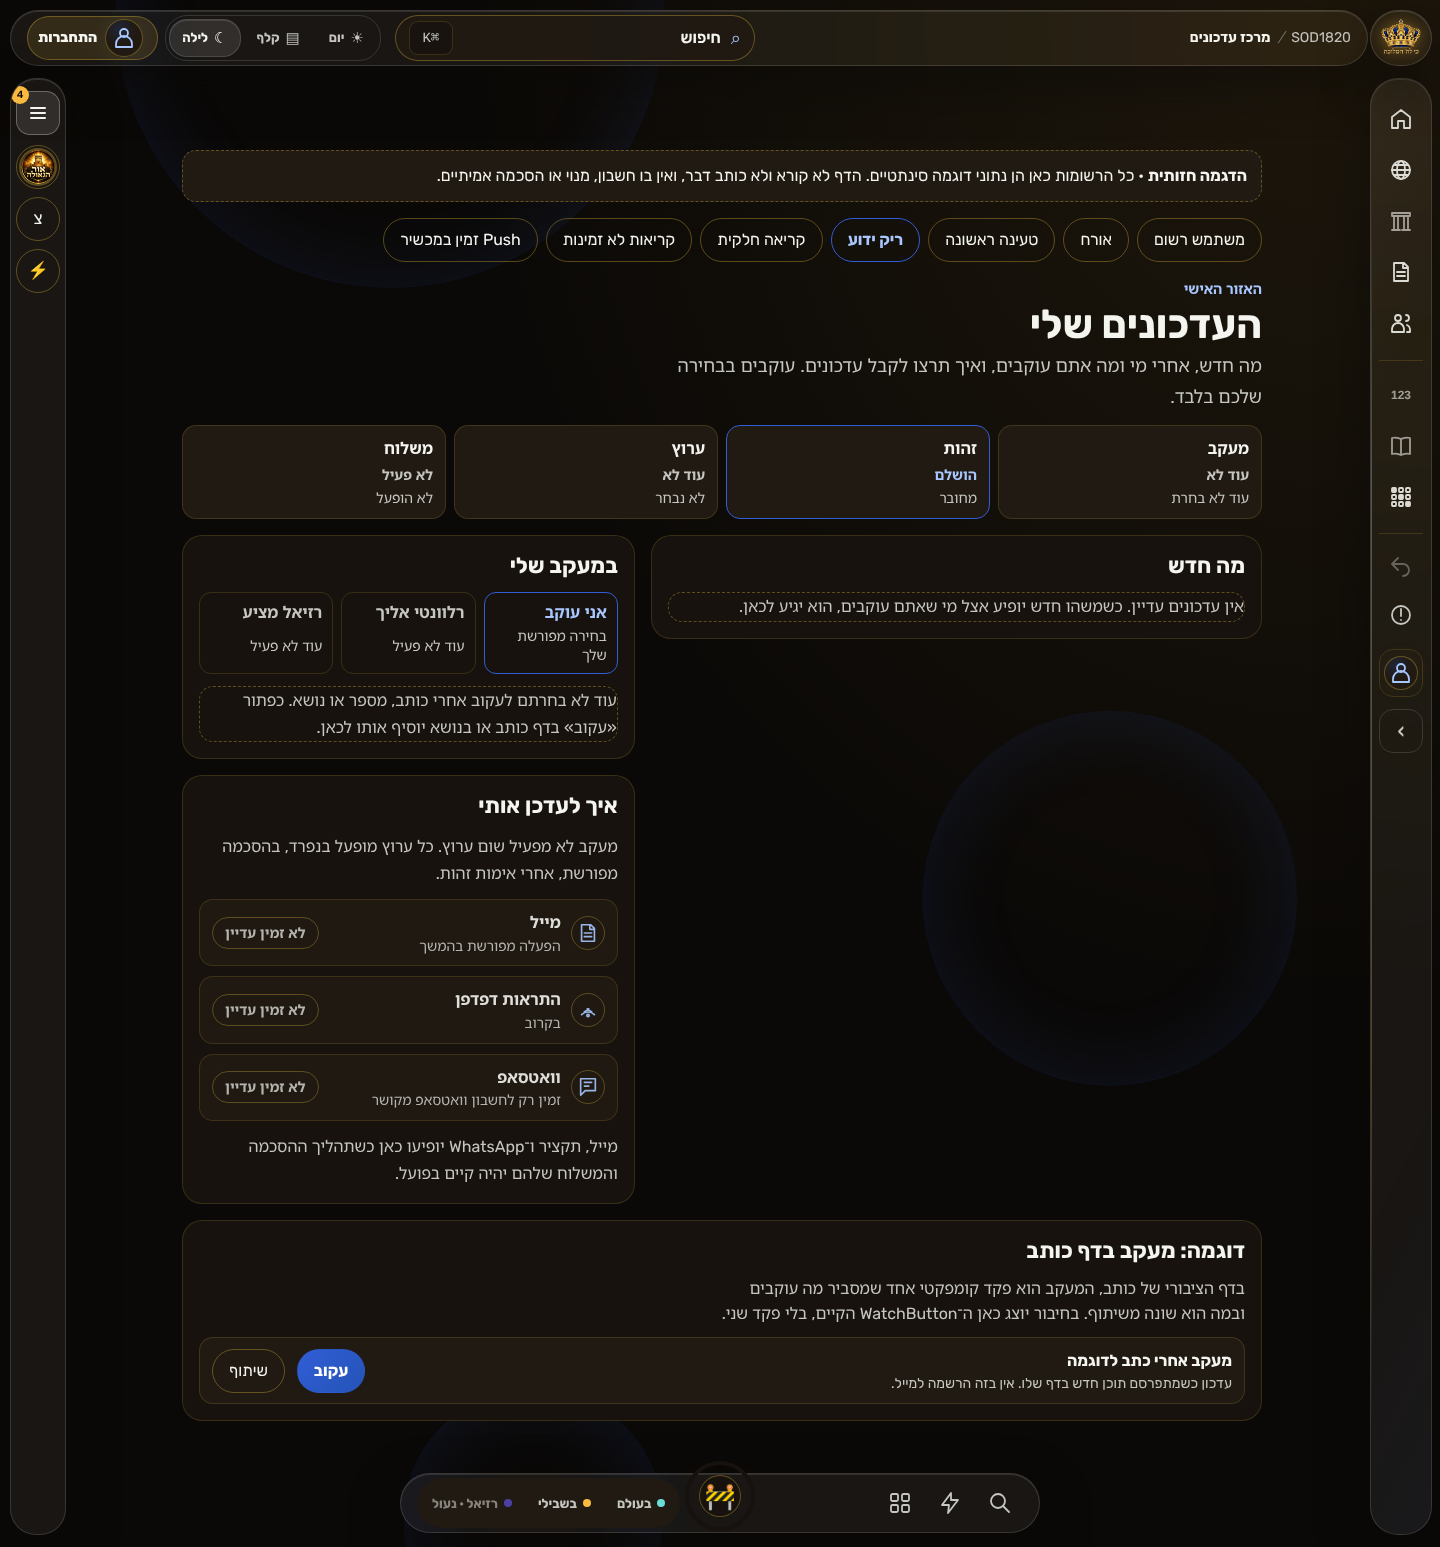
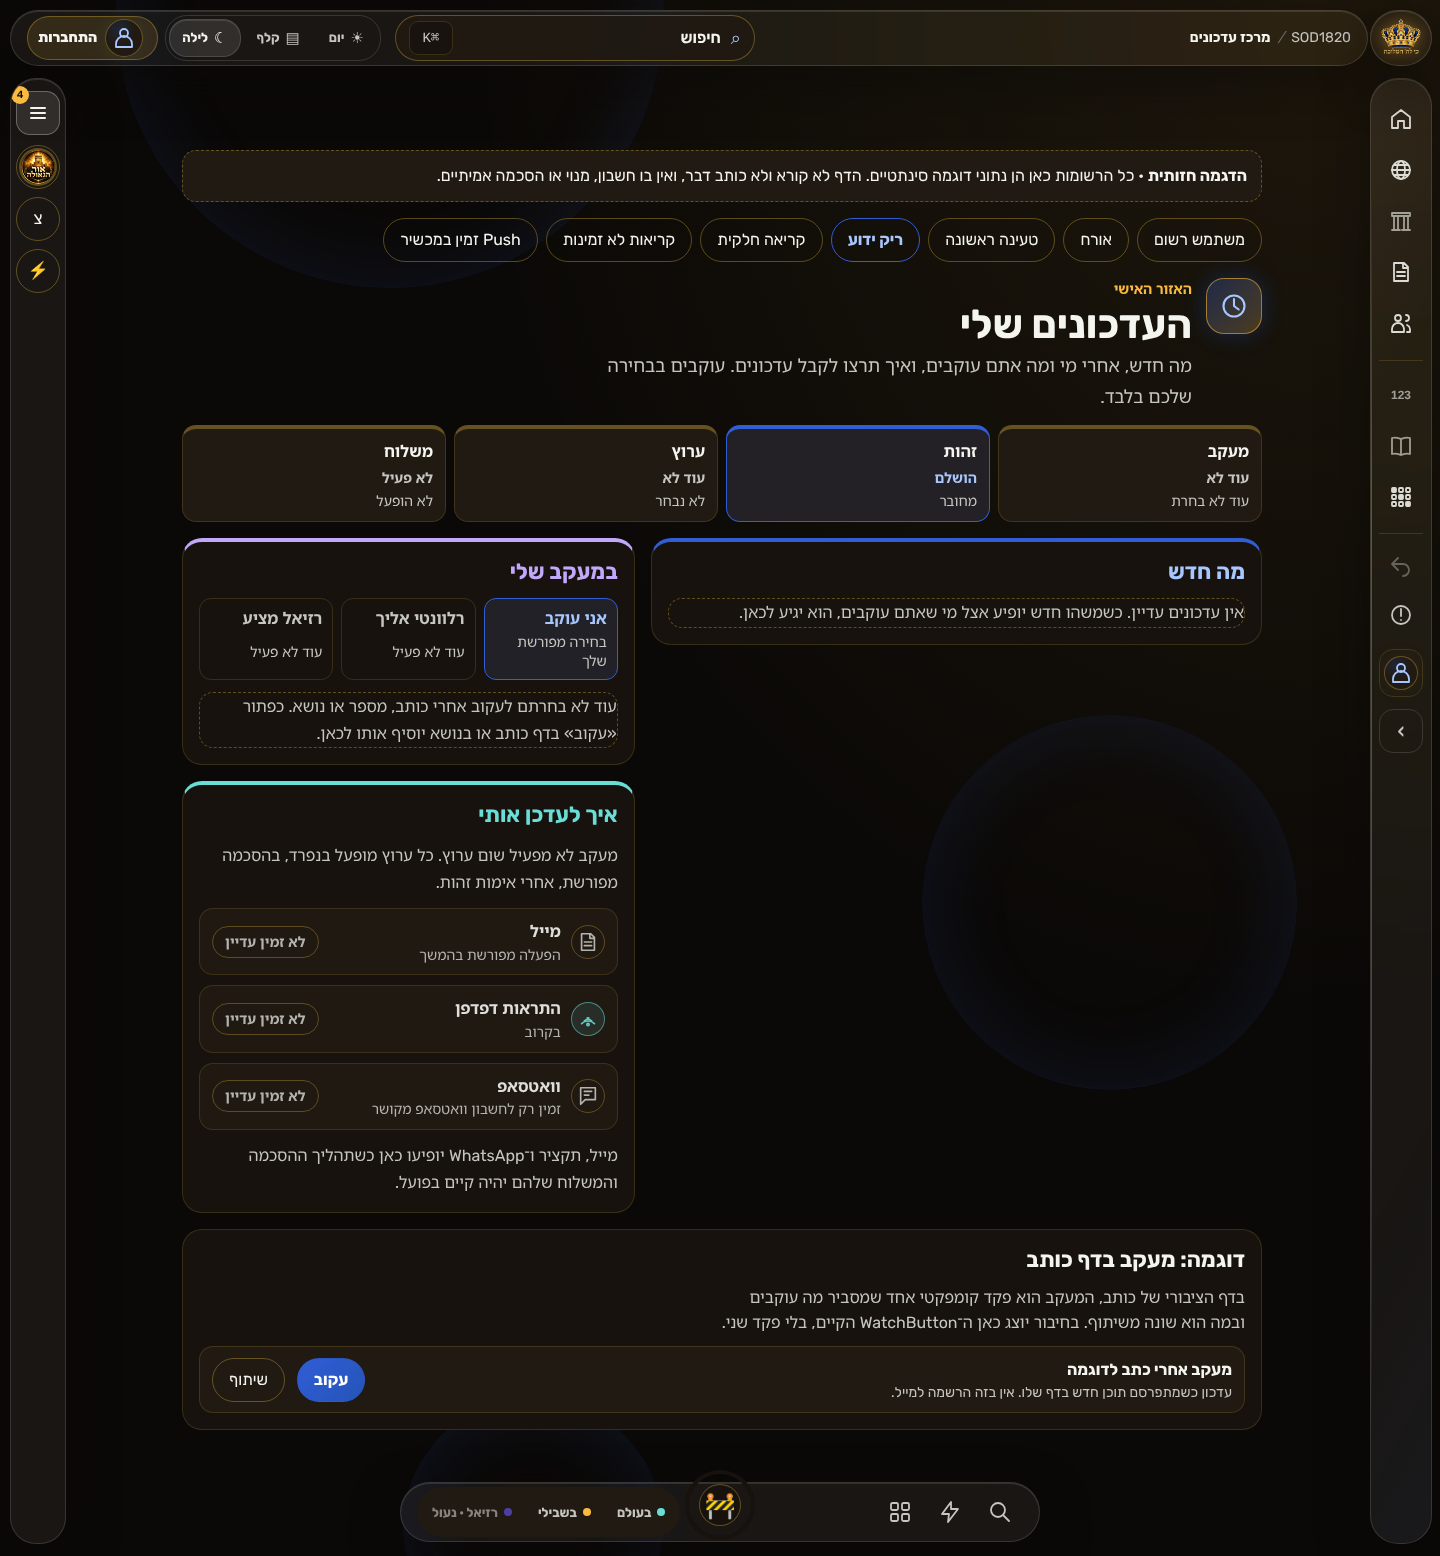
feat(2029): follow center uses semantic colour roles instead of one neutral surface
Claude-Session: https://claude.ai/code/session_018Ps33Uv6JND2xDR3bPRDa3

diff --git a/src/components/followCenter2029/FollowCenter2029.jsx b/src/components/followCenter2029/FollowCenter2029.jsx
@@ -22,10 +22,13 @@ export default function FollowCenter2029({ model, returnHref = null, onMarkAllRe
   const guest = principal === "guest";
   return <section className="fc" aria-labelledby="fc-title" data-principal={principal}>
     <header className="fc-head">
-      <div>
-        <p className="fc-eyebrow">האזור האישי</p>
-        <h1 id="fc-title">העדכונים שלי</h1>
-        <p className="fc-lede">מה חדש, אחרי מי ומה אתם עוקבים, ואיך תרצו לקבל עדכונים. עוקבים בבחירה שלכם בלבד.</p>
+      <div className="fc-title-row">
+        <span className="fc-tile" aria-hidden="true"><NavigationIcon2029 name="now" size={28} /></span>
+        <div>
+          <p className="fc-eyebrow">האזור האישי</p>
+          <h1 id="fc-title">העדכונים שלי</h1>
+          <p className="fc-lede">מה חדש, אחרי מי ומה אתם עוקבים, ואיך תרצו לקבל עדכונים. עוקבים בבחירה שלכם בלבד.</p>
+        </div>
       </div>
       <ol className="fc-life" aria-label="ארבעת שלבי המעקב, כל אחד נפרד">
         {lifecycle.map((step) => <li key={step.key} data-state={step.state}>
@@ -45,7 +48,7 @@ export default function FollowCenter2029({ model, returnHref = null, onMarkAllRe
     </div> : null}
 
     <div className="fc-grid">
-      <section className="fc-card fc-updates" aria-labelledby="fc-updates-title">
+      <section className="fc-card fc-updates" data-tone="action" aria-labelledby="fc-updates-title">
         <div className="fc-card-head">
           <h2 id="fc-updates-title">מה חדש</h2>
           {updates.state === "ready" && updates.unread ? <button type="button" className="fc-link" onClick={onMarkAllRead}>סמן הכול כנקרא ({updates.unread})</button> : null}
@@ -62,7 +65,7 @@ export default function FollowCenter2029({ model, returnHref = null, onMarkAllRe
               </div>
               {item.body ? <p className="fc-body">{item.body}</p> : null}
               <p className="fc-meta"><time>{item.time}</time>
-                {item.why ? <span className="fc-why">כי אתם עוקבים אחרי <b className="fc-why-name"><span className="fc-icon-sm" aria-hidden="true"><NavigationIcon2029 name={item.why.icon} size={16} /></span> {item.why.label}</b>{item.why.kind ? ` · ${item.why.kind}` : ""}</span> : null}</p>
+                {item.why ? <span className="fc-why">כי אתם עוקבים אחרי <b className="fc-why-name"><span className="fc-icon-sm" data-icon={item.why.icon} aria-hidden="true"><NavigationIcon2029 name={item.why.icon} size={16} /></span> {item.why.label}</b>{item.why.kind ? ` · ${item.why.kind}` : ""}</span> : null}</p>
               {href ? <a className="fc-open" href={href} onClick={() => onOpenUpdate?.(item)}>לצפייה בתוכן <span aria-hidden="true">←</span></a> : null}
             </li>;
           })}
@@ -70,7 +73,7 @@ export default function FollowCenter2029({ model, returnHref = null, onMarkAllRe
       </section>
 
       <div className="fc-side">
-        <section className="fc-card" aria-labelledby="fc-follow-title">
+        <section className="fc-card" data-tone="follow" aria-labelledby="fc-follow-title">
           <h2 id="fc-follow-title">במעקב שלי</h2>
           <ul className="fc-inputs" aria-label="שלושה סוגי קלט נפרדים">
             {inputs.map((input) => <li key={input.key} data-active={input.active}><b>{input.label}</b><span>{input.note}</span></li>)}
@@ -83,7 +86,7 @@ export default function FollowCenter2029({ model, returnHref = null, onMarkAllRe
               {group.items.map((entry) => {
                 const href = withReturn(entry.href, returnHref);
                 return <li key={entry.topic} className="fc-follow-row" data-change={entry.change}>
-                  <span className="fc-icon" aria-hidden="true"><NavigationIcon2029 name={entry.icon} size={22} /></span>
+                  <span className="fc-icon" data-icon={entry.icon} aria-hidden="true"><NavigationIcon2029 name={entry.icon} size={22} /></span>
                   {href ? <a className="fc-name" href={href}>{entry.label}</a> : <span className="fc-name">{entry.label}</span>}
                   <button type="button" className="fc-btn" aria-label={`ביטול מעקב: ${entry.label}`} aria-busy={entry.change === "pending"} disabled={entry.change === "pending"} onClick={() => onUnfollow?.(entry.topic)}>
                     {entry.change === "pending" ? "מבטל…" : <>עוקב <NavigationIcon2029 name="check" size={16} /></>}</button>
@@ -95,12 +98,12 @@ export default function FollowCenter2029({ model, returnHref = null, onMarkAllRe
           </div>) : null}
         </section>
 
-        <section className="fc-card" aria-labelledby="fc-channel-title">
+        <section className="fc-card" data-tone="channel" aria-labelledby="fc-channel-title">
           <h2 id="fc-channel-title">איך לעדכן אותי</h2>
           <p className="fc-note-plain">מעקב לא מפעיל שום ערוץ. כל ערוץ מופעל בנפרד, בהסכמה מפורשת, אחרי אימות זהות.</p>
           <ul className="fc-list">
             {channels.map((channel) => <li key={channel.key} className="fc-channel" data-available={channel.available}>
-              <span className="fc-icon" aria-hidden="true"><NavigationIcon2029 name={channel.icon} size={22} /></span>
+              <span className="fc-icon" data-icon={channel.icon} data-available={channel.available} aria-hidden="true"><NavigationIcon2029 name={channel.icon} size={22} /></span>
               <div><strong>{channel.label}</strong><small>{channel.note}</small></div>
               <span className="fc-chip" data-on={channel.chosen}>{channel.chosen ? "פעיל" : channel.available ? "אפשר להפעיל" : "לא זמין עדיין"}</span>
             </li>)}

diff --git a/src/components/followCenter2029/followCenter2029.css b/src/components/followCenter2029/followCenter2029.css
@@ -87,3 +87,30 @@ a.fc-name{color:var(--s29-accent-text);text-decoration:underline;text-underline-
 .fcp-spec-row small{display:block;color:var(--s29-muted);font-size:14px;line-height:1.4}
 .fcp-spec-chip{min-height:44px;min-width:44px;display:inline-flex;align-items:center;justify-content:center;padding:8px 16px;border-radius:999px;border:1px solid transparent;background:var(--s29-accent-btn,var(--s29-accent));color:var(--s29-on-accent,#fff);font-size:16px;font-weight:700}
 .fcp-spec-share{background:transparent;border-color:var(--s29-line-strong);color:var(--s29-ink);font-weight:400}
+
+/* Colour roles (Design V2): ordinary text stays theme ink; colour carries meaning through the semantic roles.
+   Person = Brand gold identity ornament, numeric = action/indigo, category and depth = secondary violet,
+   discovery/source/channel = cyan, selected/action = accent. Brand roles are ornament, never status. */
+.fc-title-row{display:flex;align-items:flex-start;gap:14px}
+.fc-tile{flex:0 0 auto;display:grid;place-items:center;width:56px;height:56px;border-radius:18px;color:var(--s29-accent-text);border:1px solid color-mix(in srgb,var(--s29-brand-gold) 55%,transparent);background:linear-gradient(135deg,color-mix(in srgb,var(--s29-brand-sapphire) 26%,var(--s29-panel-soft)),color-mix(in srgb,var(--s29-brand-gold) 20%,var(--s29-panel-soft)));box-shadow:0 0 22px color-mix(in srgb,var(--s29-brand-sapphire) 30%,transparent)}
+.fc-card{border-top:4px solid var(--fc-tone,var(--s29-line))}
+.fc-card[data-tone=action]{--fc-tone:var(--s29-accent)}
+.fc-card[data-tone=follow]{--fc-tone:var(--s29-accent-secondary)}
+.fc-card[data-tone=channel]{--fc-tone:var(--s29-discovery)}
+.fc-card[data-tone=action] h2{color:var(--s29-accent-text)}
+.fc-card[data-tone=follow] h2{color:var(--s29-accent-secondary)}
+.fc-card[data-tone=channel] h2{color:var(--s29-discovery)}
+.fc-update[data-unread=true]{background:color-mix(in srgb,var(--s29-accent) 11%,var(--s29-panel-soft))}
+.fc-life li{border-top:4px solid var(--s29-line-strong)}
+.fc-life li[data-state=done]{border-top-color:var(--s29-accent);background:color-mix(in srgb,var(--s29-accent) 10%,var(--s29-panel-soft))}
+.fc-life li[data-state=needed]{border-top-color:var(--s29-discovery);background:color-mix(in srgb,var(--s29-discovery) 9%,var(--s29-panel-soft))}
+.fc-inputs li[data-active=true]{background:color-mix(in srgb,var(--s29-accent) 11%,var(--s29-panel-soft))}
+.fc-icon[data-icon=personal],.fc-icon-sm[data-icon=personal]{color:var(--s29-brand-gold);border-color:color-mix(in srgb,var(--s29-brand-gold) 60%,transparent);background:color-mix(in srgb,var(--s29-brand-gold) 12%,transparent)}
+.fc-icon[data-icon=number],.fc-icon-sm[data-icon=number]{color:var(--s29-accent-text);border-color:color-mix(in srgb,var(--s29-accent) 65%,transparent);background:color-mix(in srgb,var(--s29-accent) 14%,transparent)}
+.fc-icon[data-icon=layers],.fc-icon-sm[data-icon=layers]{color:var(--s29-accent-secondary);border-color:color-mix(in srgb,var(--s29-accent-secondary) 60%,transparent);background:color-mix(in srgb,var(--s29-accent-secondary) 13%,transparent)}
+.fc-icon[data-icon=signal],.fc-icon[data-icon=discovery],.fc-icon-sm[data-icon=signal],.fc-icon-sm[data-icon=discovery]{color:var(--s29-discovery);border-color:color-mix(in srgb,var(--s29-discovery) 60%,transparent);background:color-mix(in srgb,var(--s29-discovery) 12%,transparent)}
+.fc-icon[data-icon=posts],.fc-icon[data-icon=conversation]{color:var(--s29-muted);background:transparent}
+.fc-icon[data-available=true]{color:var(--s29-discovery);border-color:var(--s29-discovery);background:color-mix(in srgb,var(--s29-discovery) 12%,transparent)}
+.fc-follow-row{background:color-mix(in srgb,var(--s29-accent-secondary) 5%,var(--s29-panel-soft))}
+.fc-follow-row .fc-btn{border-color:color-mix(in srgb,var(--s29-accent) 70%,transparent);color:var(--s29-accent-text);background:color-mix(in srgb,var(--s29-accent) 12%,transparent)}
+.fc-eyebrow{color:var(--s29-brand-gold)}

diff --git a/test/follow-center-visual-2029.browser.py b/test/follow-center-visual-2029.browser.py
@@ -169,6 +169,18 @@ def check(browser, state, width, theme):
             node = page.locator(selector).first
             fg = rgb(node.evaluate('n => getComputedStyle(n).color')); bg = rgb(node.evaluate(BG))
             assert ratio(fg, bg) >= 4.5, ('contrast', selector, round(ratio(fg, bg), 2), fg, bg, tag)
+        # colour carries meaning: distinct semantic icon colours, each readable (non-text 3:1) on its surface
+        colors = {}
+        for icon in page.locator('.fc-icon[data-icon]').all():
+            name = icon.get_attribute('data-icon'); fg = rgb(icon.evaluate('n => getComputedStyle(n).color')); colors.setdefault(name, fg)
+            if name in ('personal', 'number', 'layers', 'signal', 'discovery'):
+                assert ratio(fg, rgb(icon.evaluate(BG))) >= 3, ('icon contrast', name, fg, theme, tag)
+        assert len({colors[k] for k in ('personal', 'number', 'layers', 'signal') if k in colors}) == 4, ('four semantic icon colours', colors, tag)
+        tones = {rgb(c.evaluate('n => getComputedStyle(n).borderTopColor')) for c in page.locator('.fc-card[data-tone]').all()}
+        assert len(tones) == 3, ('three section tones', tones, tag)
+        for selector in ('h2:visible',):
+            for heading in page.locator('.fc-card h2').all():
+                assert ratio(rgb(heading.evaluate('n => getComputedStyle(n).color')), rgb(heading.evaluate(BG))) >= 4.5, ('section heading contrast', tag)
         # keyboard: every interactive control is reachable and shows a visible focus ring
         seen = set()
         for _ in range(40):

diff --git a/docs/reviews/follow-center-visual-20261025.md b/docs/reviews/follow-center-visual-20261025.md
@@ -26,6 +26,7 @@ or `WatchButton` was edited, so the three old stacked panels still render there 
 | Truthful states | loading ≠ empty; a failed read says "זה לא אומר שאין כלום" with retry; partial read keeps the other section; unfollow shows pending and an unconfirmed failure leaves the row; confirmed removes it |
 | Record time | Bilingual Hebrew + Gregorian date (relative time is Home-only per the record-time rule; the old panel used relative time) |
 | 2029 icons | Subject kinds and channels use the `NavigationIcon2029` catalogue (personal, number, layers, signal, discovery, posts, conversation, check); no emoji. There is no bell or mail icon in the catalogue, so email uses `posts` and device Push uses `signal`; a dedicated icon would be a catalogue extension for ZURIEL to approve |
+| Colour roles | Colour carries meaning through the Design V2 roles, not decoration: writer = Brand gold identity ornament, number = action/indigo, category = secondary violet, source/channel/discovery = cyan, section tops = action / violet / cyan, selected and followed = accent tint, identity tile = Crown gold + sapphire. Icons follow the contract (`currentColor`, theme text by default); colour is applied by the consumer. Icon colours are asserted at 3:1 or more and headings at 4.5:1 in all presets |
 | Design V2 | 18px reading, 16px UI, 14px metadata floor, 44px targets, three presets, accent text role, focus ring, reduced motion |
 
 ## Preview and fixtures
